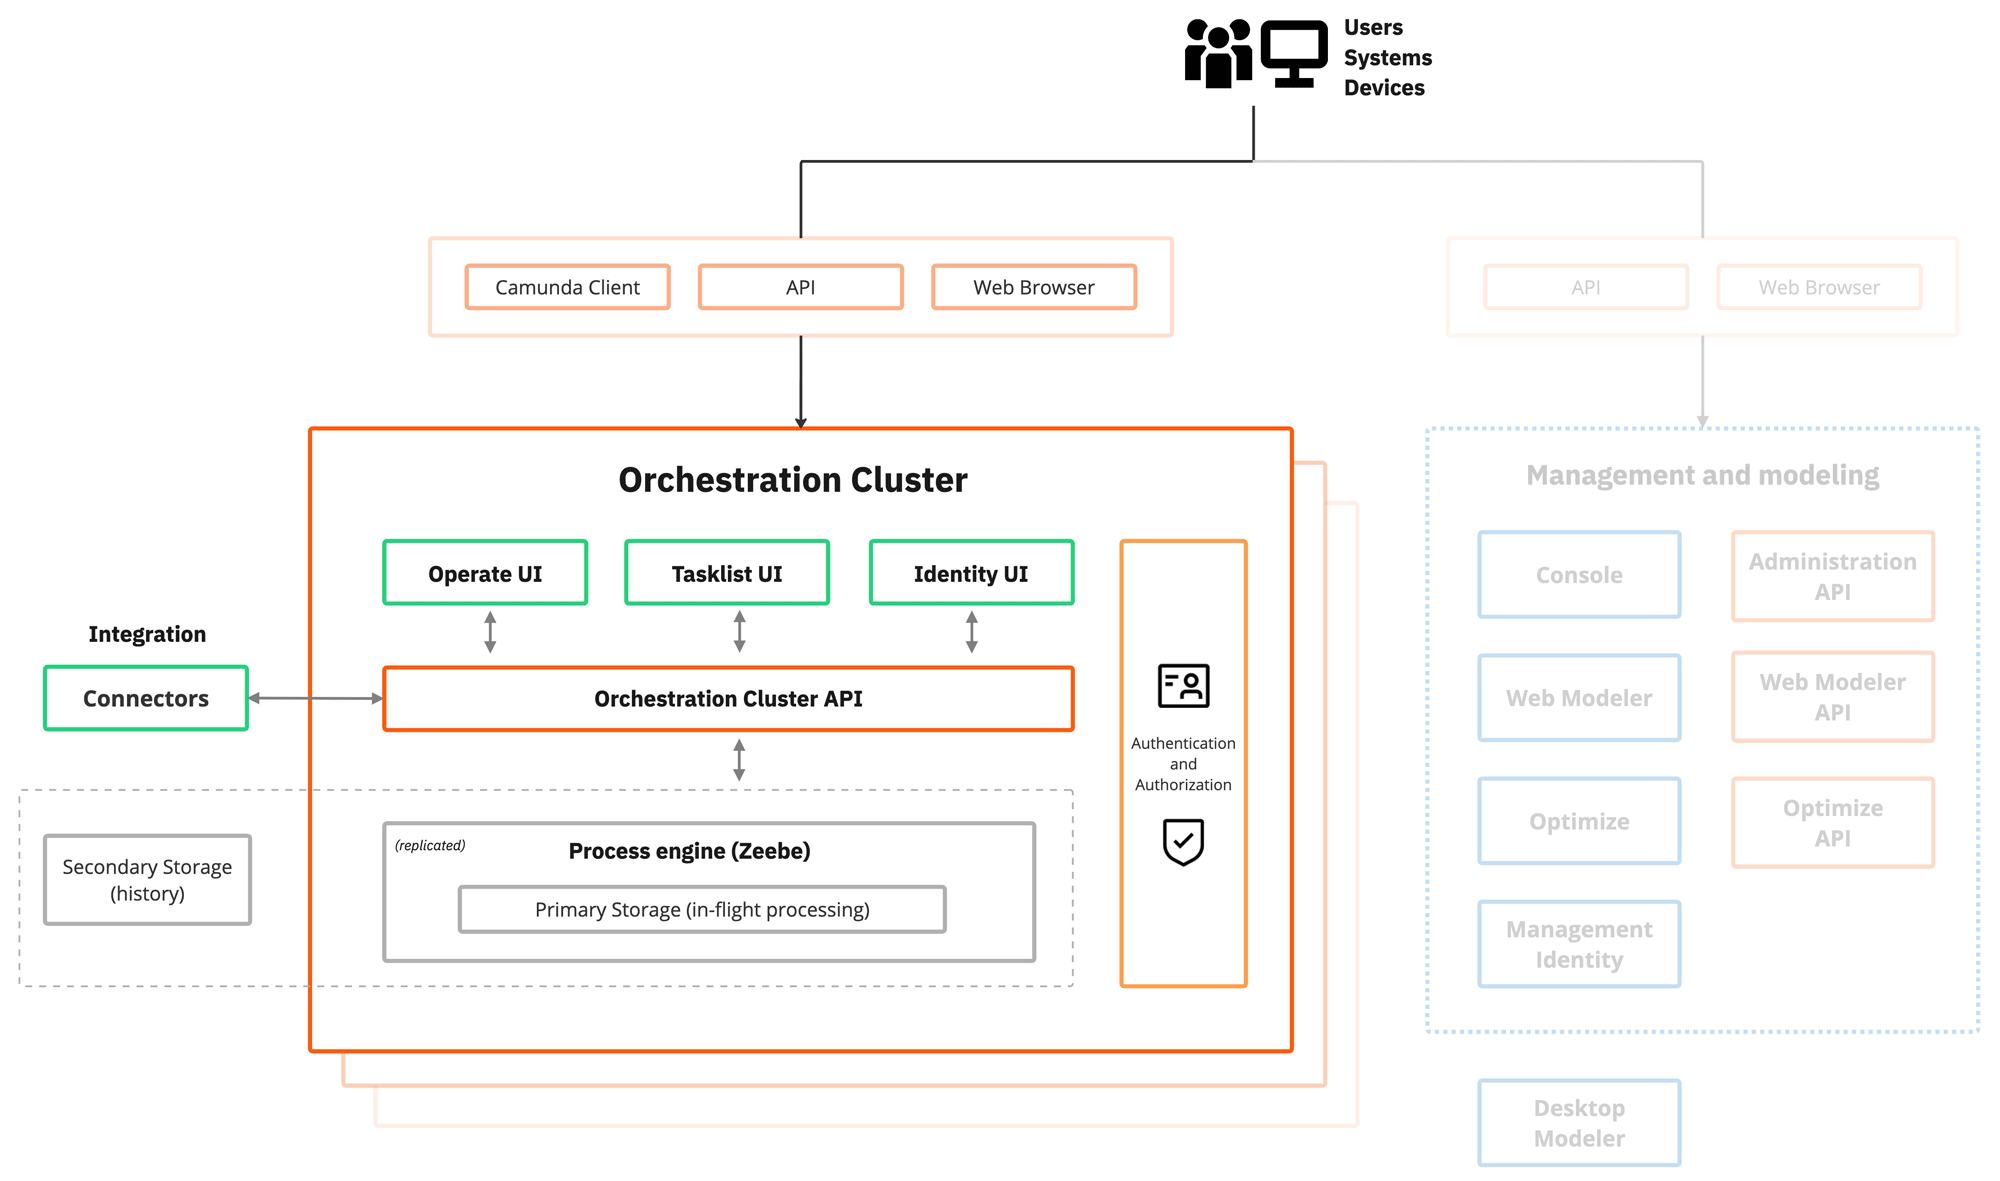
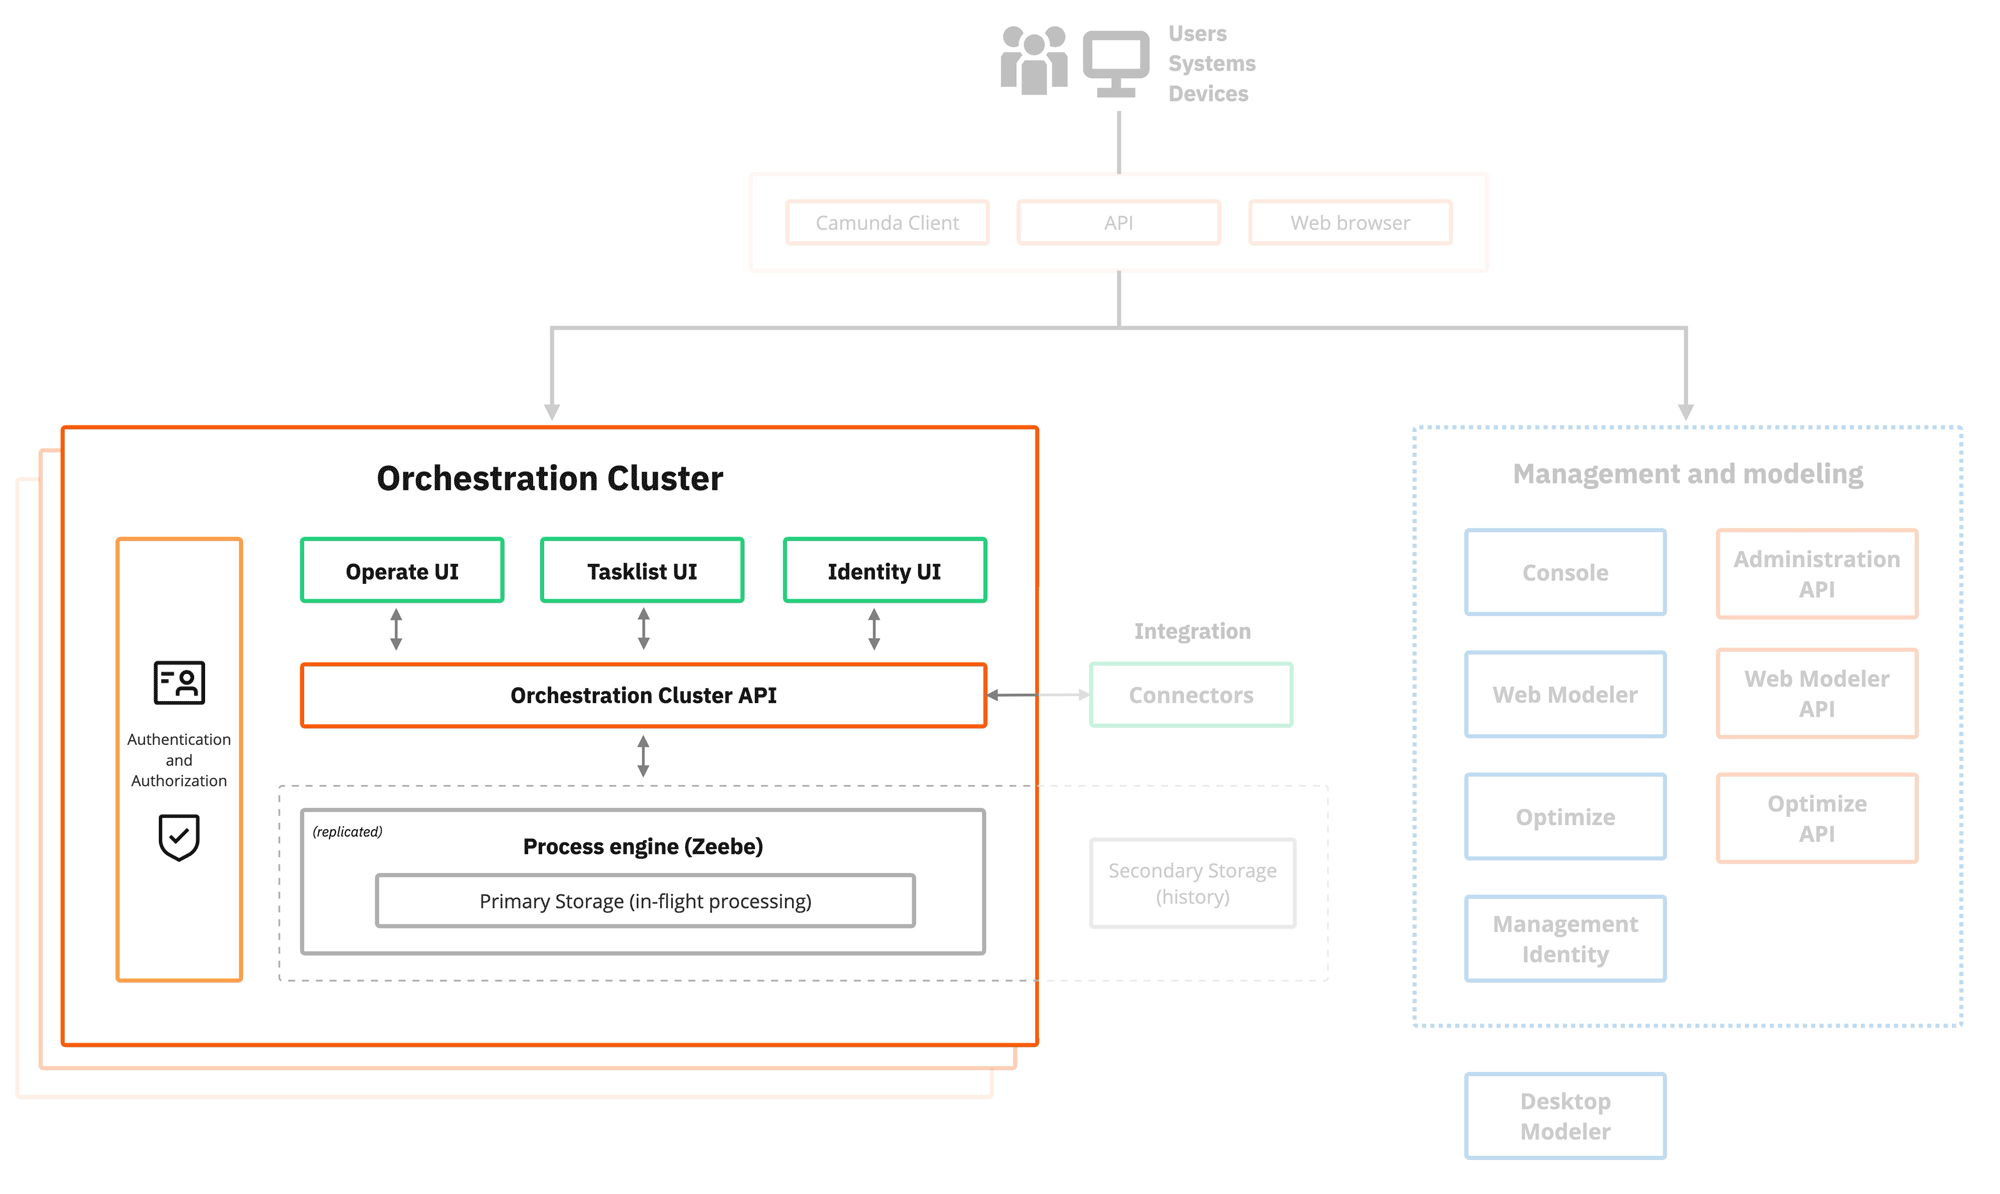
docs(using Camunda): Add content

diff --git a/docs/components/whats-new-in-88.md b/docs/components/whats-new-in-88.md
@@ -11,13 +11,9 @@ import PersonaBadge from './react-components/\_persona-badge';
 
 Learn about important changes in Camunda 8.8 to consider when migrating from Camunda 8.7.
 
-:::warning work in progress
-This documentation page is a work in progress and may contain incomplete, placeholder, or evolving content. While the core concepts introduced in Camunda 8.8 are stable, details and sections here are actively being refined.
-:::
-
 ## Introducing Camunda 8.8
 
-Camunda 8.8 introduces important architectural changes and enhancements, unifying formerly isolated components such as Operate, Tasklist, and identity management into a single **Orchestration Cluster** component serving a unified Orchestration Cluster API.
+Camunda 8.8 introduces important architectural changes and enhancements to simplify deployment, improve maintainability, and empower both operations teams and developers.
 
 The simplest Self-Managed deployment now involves running a single Java application or docker container of the Orchestration Cluster Application.
 
@@ -28,15 +24,15 @@ The simplest Self-Managed deployment now involves running a single Java applicat
 </tr>
 <tr>
     <td>[Orchestration Cluster](#orchestration-cluster)</td>
-    <td>The Orchestration Cluster (previously automation cluster) is now the core Camunda 8 component.</td>
+    <td>The Orchestration Cluster is now the core Camunda 8 component.</td>
 </tr>
 <tr>
     <td>[Identity, authentication, and authorization](#identity)</td>
-    <td>With the introduction of IAM functionality into the Orchestration Cluster with Camunda 8.8 the source of truth for IAM on cluster resources moves from the former Identity component, now called Management Identity, into the Orchestration Cluster itself.</td>
+    <td>Changes are made to Identity and how you manage authentication and authorization.</td>
 </tr>
 <tr>
     <td>[APIs and SDKs](#apis-and-sdks)</td>
-    <td>New and changed APIs and SDKs are introduced to interact programmatically with the Orchestration Cluster.</td>
+    <td>New and changed APIs and SDKs are introduced in Camunda 8.8.</td>
 </tr>
 </table>
 
@@ -49,27 +45,30 @@ The simplest Self-Managed deployment now involves running a single Java applicat
 
 ## Orchestration Cluster {#orchestration-cluster}
 
+The primary architectural change is the consolidation of the core Zeebe, Operate, Tasklist, and Identity components into the Orchestration Cluster (a single unified deployable package). This impacts how Camunda 8 is deployed, managed, and scaled.
+
 The Orchestration cluster (previously automation cluster) is now the core component of Camunda 8.
 
 <img src={OrchestrationClusterImg} alt="Diagram showing the orchestration cluster" class="img-noborder" style={{marginBottom: '0'}}/>
 
-### Zeebe, Operate, and Tasklist
+### Zeebe, Operate, Tasklist, and Identity
 
-Zeebe, Operate, and Tasklist are consolidated into the Orchestration Cluster application.
+In Camunda 8.8, Zeebe, Operate, Tasklist, and Identity are consolidated into the Orchestration Cluster application as a single deployable artifact, distributed as a JAR file or Docker container.
 
-- [Zeebe](../reference/glossary.md#zeebe) as the [workflow engine](../reference/glossary.md#workflow-engine).
-- Operate for monitoring and troubleshooting [process instances](../reference/glossary.md#process-instance) running in [Zeebe](../reference/glossary.md#zeebe).
-- Tasklist for interacting with [user tasks](../reference/glossary.md#user-task) (assigning, completing, etc.)
+- [Zeebe](../reference/glossary.md#zeebe) is the [workflow engine](../reference/glossary.md#workflow-engine).
+- Operate is used for monitoring and troubleshooting [process instances](../reference/glossary.md#process-instance) running in Zeebe.
+- Tasklist is used for interacting with [user tasks](../reference/glossary.md#user-task) (assigning, completing, and so on).
+- [Identity](../reference/glossary.md#identity) is used for managing the integrated Orchestration Cluster authentication and authorization.
 
-### Orchestration Cluster Identity
+In Camunda 8.7 and earlier, each component (Zeebe, Operate, Tasklist, and Identity) was deployed independently.
 
-[Identity](../reference/glossary.md#identity) for managing the integrated authentication and authorization.
+### Unified Orchestration Cluster REST API {#orchestration-cluster-api}
 
-<!-- Mention Management Identity here as well. -->
+Camunda 8.8 introduces a single unified [Orchestration Cluster REST API](/apis-tools/orchestration-cluster-api-rest/orchestration-cluster-api-rest-overview.md) you can use to interact programmatically with the Orchestration Cluster.
 
-### Orchestration Cluster API
-
-APIs for interacting with the Orchestration cluster programmatically.
+- This replaces component APIs (Operate API, Tasklist API, Zeebe API, and much of Identity API) with a single set of endpoints.
+- This unified API supports both organizational (SaaS) and Self-Managed deployments.
+- This is now the default and recommended integration point for developers, operators, and automation solutions.
 
 <!-- Introduce it but [link to content](#orchestration-cluster-api). -->
 
@@ -85,9 +84,68 @@ Content is here
 
 ### New Java/Spring SDK, Node.js -->
 
+### Unified Exporter
+
+Camunda 8.8 introduces a new unified exporter architecture to improve cluster management and data migration. The new exporter architecture provides two dedicated Helm jobs for Identity migration and process application migration.
+
+In Camunda 8.7 and earlier, dedicated importers/exporters were used for data flows between components (such as Elasticsearch import/export).
+
+### Unified component configuration
+
+Camunda 8.8 introduces a unified configuration for Orchestration Cluster components where you can define all essential cluster and component behavior through a single, centralized configuration system.
+
+In Camunda 8.7 and earlier, managing and configuring core components (Zeebe, Operate, Tasklist, Identity) was done separately.
+
 ## Identity, authentication, and authorization {#identity}
 
+Camunda 8.8 includes changes to how you manage authentication and authorization with Identity.
+
+### Identity
+
+The Identity service is now fully integrated into the Orchestration Cluster.
+
+- Instead of relying on a separate PostgreSQL database, Identity now uses Zeebe’s persistence storage. This reinforces consistency and reduces the need to manage additional databases.
+- Identity is decoupled from Keycloak. While Keycloak remains supported, Camunda 8.8 now allows direct integration of any OpenID Connect (OIDC) compatible identity provider, increasing flexibility for authentication.
+
+### Access control and authorization management
+
+Groups and roles that were previously managed via the Console are now maintained directly within Orchestration Cluster Identity.
+Console-based changes to groups/roles are no longer effective for 8.8 clusters after upgrade.
+
+### Summary of Identity changes
+
+The following table provides a summary of the main Identity changes.
+
+| Feature/area               | Camunda 8.7 and earlier                | Camunda 8.8                 |
+| :------------------------- | :------------------------------------- | :-------------------------- |
+| Identity storage           | Separate PostgreSQL database           | Zeebe internal storage      |
+| Administration location    | Console/Keycloak/external              | Identity (internal)         |
+| Supported Providers        | Primarily Keycloak (OIDC support)      | Any OIDC-compliant provider |
+| Groups/roles configuration | Managed in Console, sometimes external | Managed in Identity         |
+
 ## APIs and SDKs {#apis-and-sdks}
+
+The following table provides a summary of the main 8.8 API and SDK changes.
+
+| What's new/changed                                                                                                              | Description                                                                                                                                                                                                                                                                                                 |
+| :------------------------------------------------------------------------------------------------------------------------------ | :---------------------------------------------------------------------------------------------------------------------------------------------------------------------------------------------------------------------------------------------------------------------------------------------------------- |
+| [Camunda Java Client](apis-tools/java-client/index.md)                                                                          | The Camunda Java Client is now the official Java library for connecting to Camunda 8 clusters, automating processes, and implementing job workers. It is designed for Java developers who want to interact programmatically with Camunda 8 via REST or gRPC, and is the successor to the Zeebe Java client. |
+| [Camunda Spring SDK](/apis-tools/spring-zeebe-sdk/getting-started/)                                                             | The Camunda Spring Boot SDK replaces the Spring Zeebe SDK. The SDK relies on the Camunda Java client, designed to enhance the user experience and introduce new features while maintaining compatibility with existing codebases.                                                                           |
+| [Camunda Process Test](/apis-tools/testing/getting-started.md)                                                                  | Camunda Process Test (CPT) is a Java library to test your BPMN processes and your process application. CPT is the successor of Zeebe Process Test. Our previous testing library is deprecated and will be removed with version 8.10.                                                                        |
+| [Zeebe gRPC API endpoints](/reference/announcements-release-notes/880/880-announcements.md#deprecated-zeebe-grpc-api-endpoints) | With the 8.8 release, the gRPC API continues but is being disabled by default starting with 8.10.                                                                                                                                                                                                           |
+
+## Summary of changes
+
+The following table provides a summary of the main 8.8 architectural changes.
+
+| Feature/area            | Camunda 8.7 and earlier                | Camunda 8.8                                     |
+| :---------------------- | :------------------------------------- | :---------------------------------------------- |
+| Core components         | Separate deployments (per component)   | Unified Orchestration Cluster                   |
+| Identity                | Separate, uses Keycloak and PostgreSQL | Integrated, uses Zeebe storage, OIDC compatible |
+| Optimize                | Separate component                     | Remains separate (as before)                    |
+| Exporter/Importer       | Separate Importers/Exporters           | Unified Exporter                                |
+| Helm Chart Deployment   | Multiple StatefulSets                  | Single StatefulSet                              |
+| Groups/Roles Management | Managed in Console                     | Managed in Identity                             |
 
 ## Upgrade guides {#upgrade-guides}
 
@@ -95,7 +153,7 @@ Camunda 8.8 lays the foundation for future releases. Upgrading ensures compatibi
 
 The following guides provide detailed information on how to upgrade to Camunda 8.8.
 
-| Guide                                                                                     | Description                                                                                      | Who is this guide for?                                                                                                                                       |
-| :---------------------------------------------------------------------------------------- | :----------------------------------------------------------------------------------------------- | :----------------------------------------------------------------------------------------------------------------------------------------------------------- |
-| [Self-Managed upgrade guide](/self-managed/components/components-upgrade/introduction.md) |                                                                                                  | Operations and platform administrators of Self-Managed installations.                                                                                        |
-| [API and SDK upgrade guide](../apis-tools/migration-manuals/index.md)                     | <p>Plan and execute an upgrade from Camunda 8.7 to 8.8, focusing on API and SDK transitions.</p> | <p>Application developers maintaining Camunda-based solutions in Self-Managed Kubernetes or VM environments, and developers using Camunda APIs and SDKs.</p> |
+| Guide                                                                                   | Description                                                                                                             | Who is this guide for?                                                                                                                                                             |
+| :-------------------------------------------------------------------------------------- | :---------------------------------------------------------------------------------------------------------------------- | :--------------------------------------------------------------------------------------------------------------------------------------------------------------------------------- |
+| [Self-Managed upgrade guide](/self-managed/update/administrators/prepare-for-update.md) | Evaluate your infrastructure, understand operational changes, and choose the best update strategy for your environment. | Operations and platform administrators of Self-Managed installations.                                                                                                              |
+| [API and SDK upgrade guide](../apis-tools/migration-manuals/index.md)                   | <p>Plan and execute an upgrade from Camunda 8.7 to 8.8, focusing on API and SDK transitions.</p>                        | <p><ul><li>Application developers maintaining Camunda-based solutions in Self-Managed Kubernetes or VM environments.</li><li>Developers using Camunda APIs and SDKs.</li></ul></p> |
